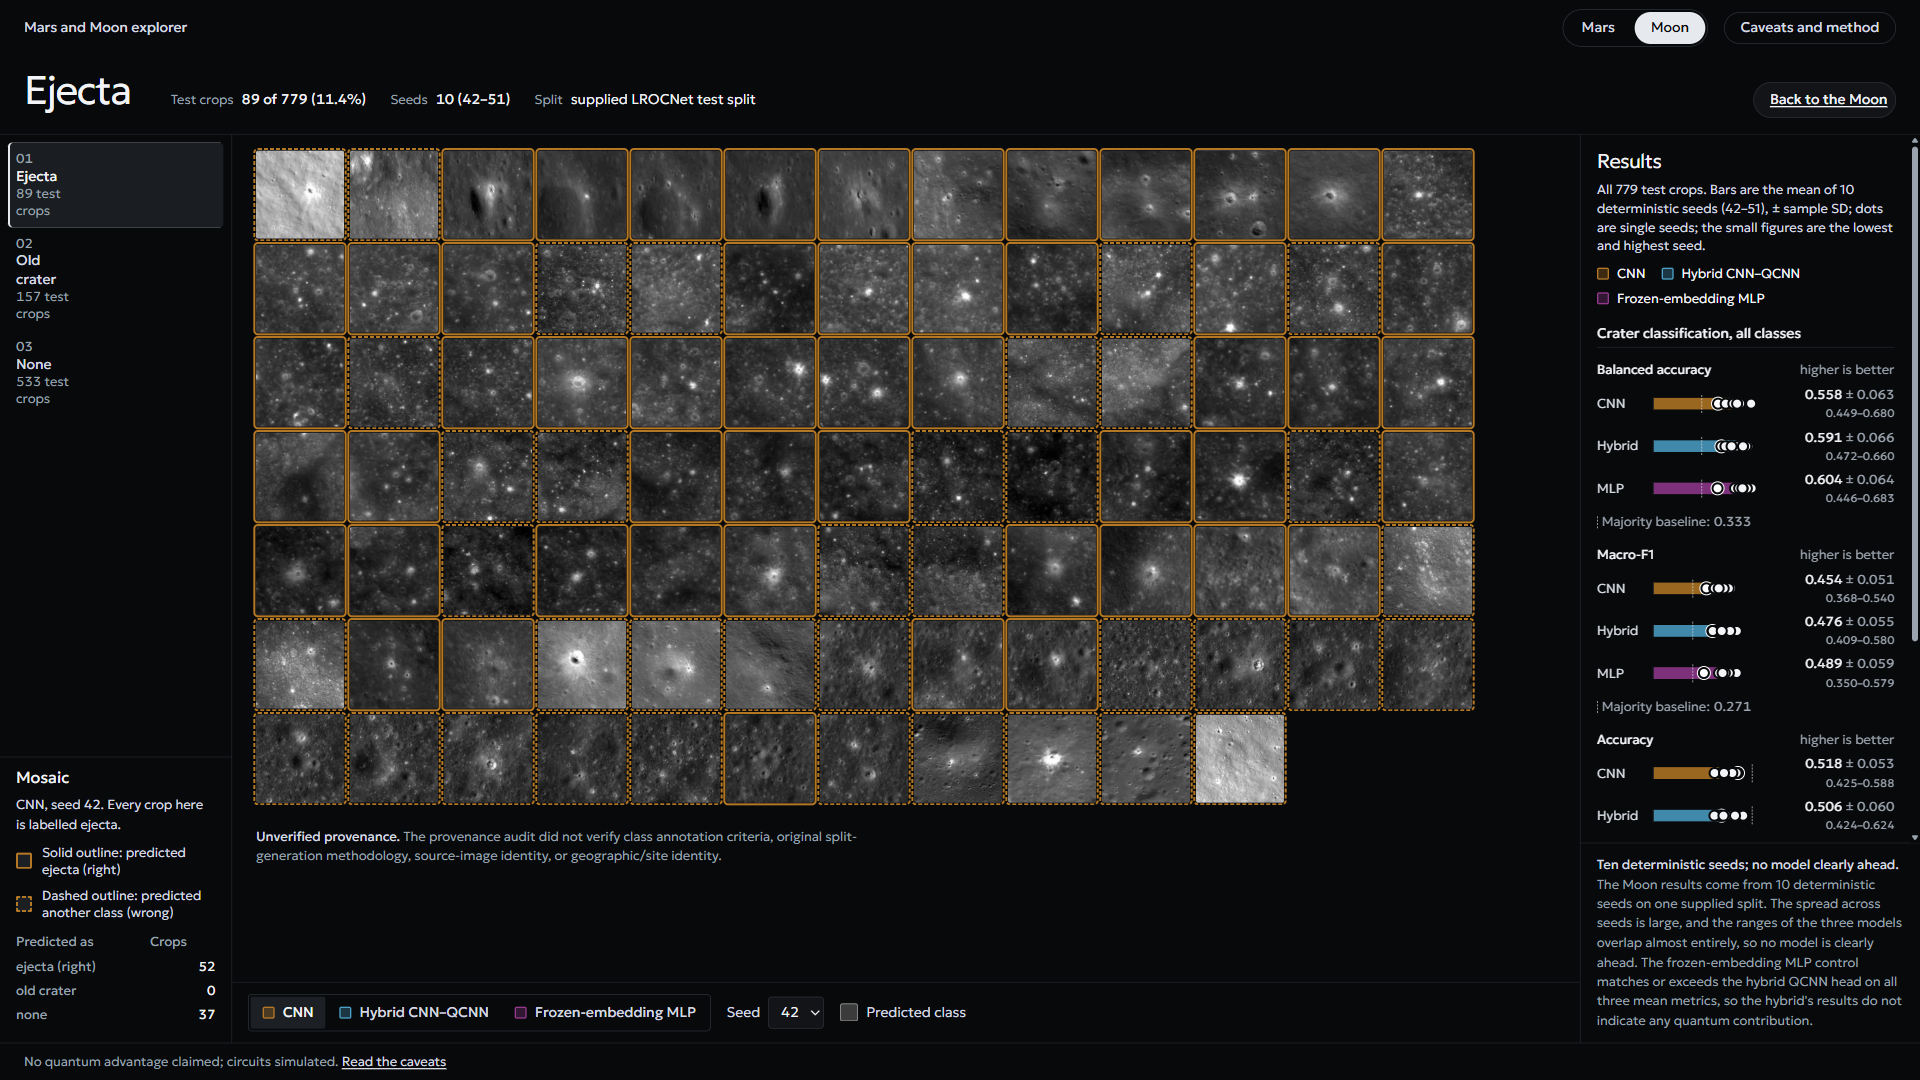
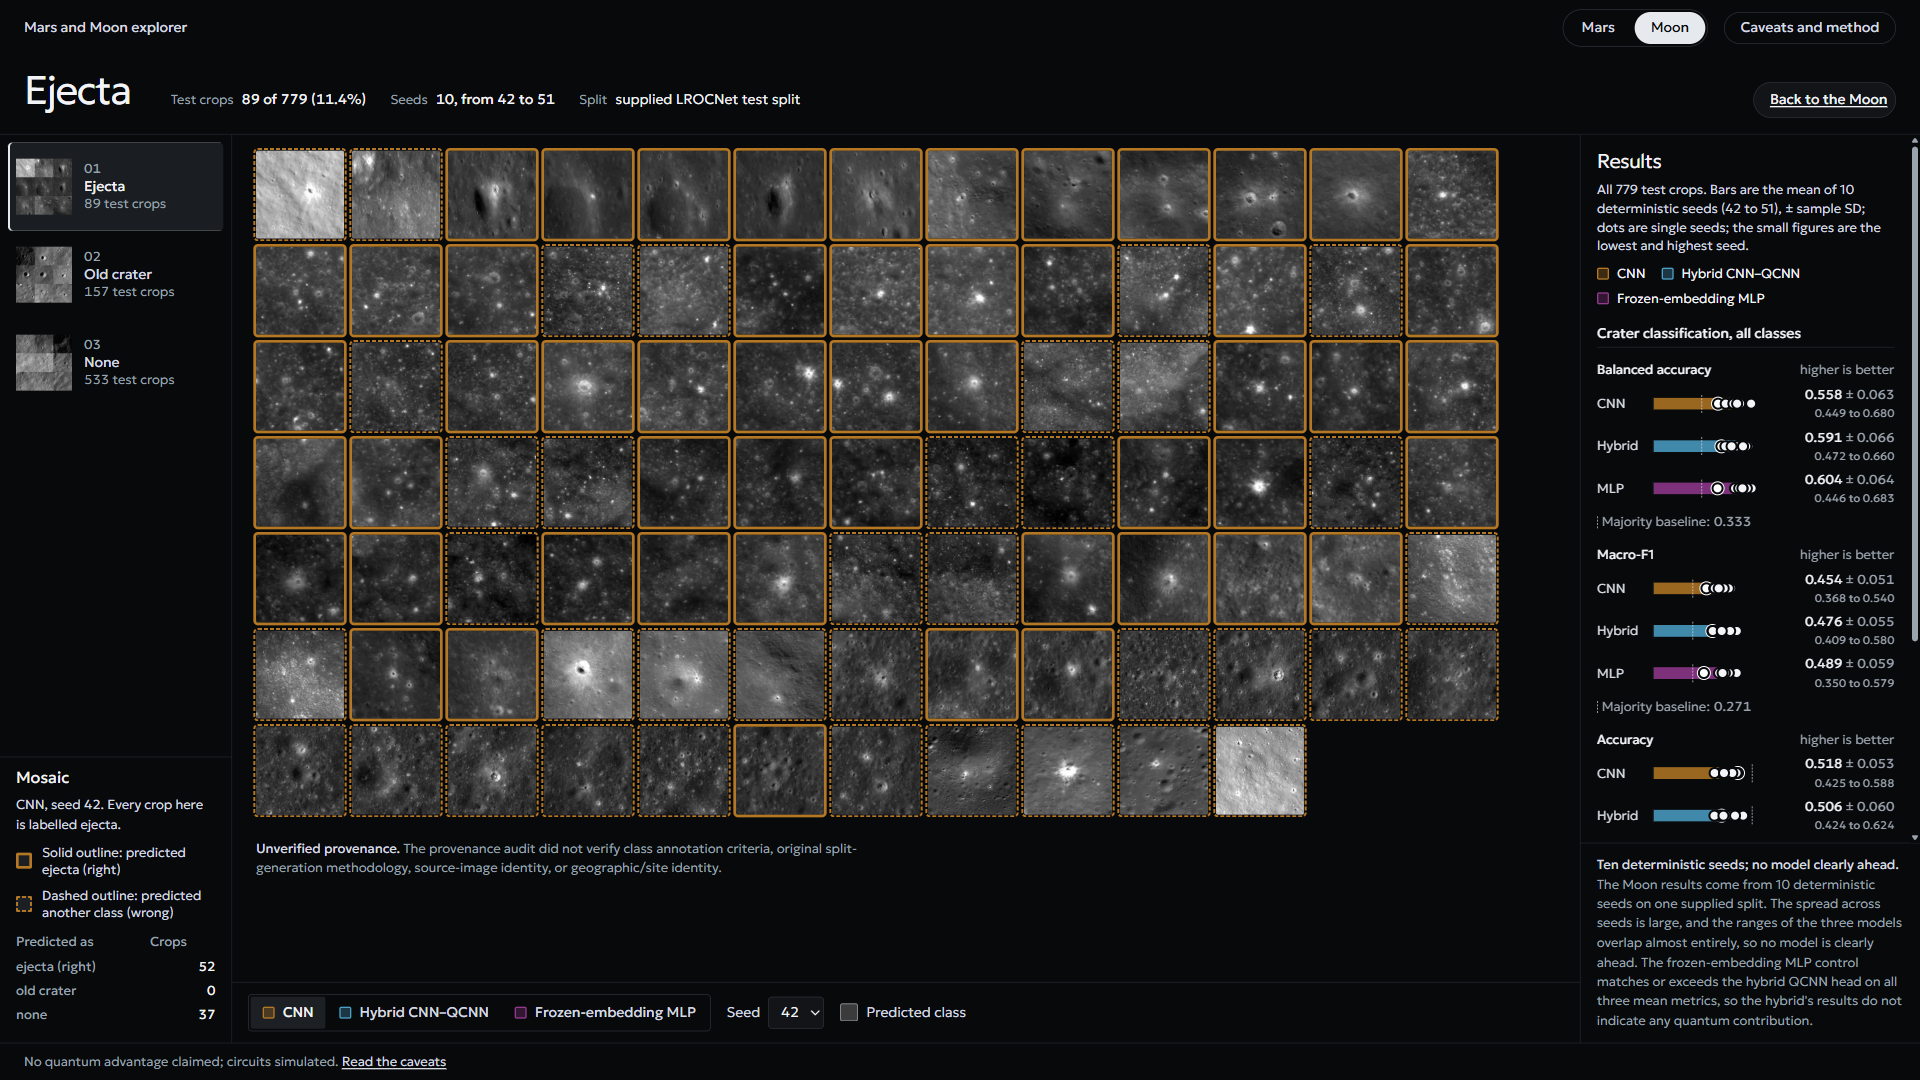
website: step 9/9b review package (screenshots, Hallmark sweep, visual fixes)
Visual check fixes:
- Moon rail: the class thumbnails (3x3 crop mosaics from export_images)
  replace the empty thumbnail column that squeezed the names. Rail
  items without a thumbnail now give their text the whole row.
- Mosaic: right predictions get a 3 px solid outline, wrong ones a
  2 px dash, so they differ in weight as well as pattern.
- Moon globe at 1366x768: the cards spilled under the header and the
  footer. The per-card "first four crops" note is now one line in the
  note box, crops are 52 px, and the list centres when it fits and
  scrolls otherwise.

Hallmark sweep, whole site (pages, styles, components): 0 FAIL /
0 REFLEX / 0 WARN.
- Ranges and seed spans read "0.449 to 0.680" (no dashes in copy).
- Mosaic gap on the 4 px scale; :disabled styles; spacing tokens for
  the metric dot and the crop tag; text colour on the card thumbnail.

Screenshots: Moon globe at 1920x1080 and 1366x768; explorer for
ejecta, old crater and none at 1920x1080; old crater and none at
1366x768.
Vitest 216 passed; lint, types and build clean.

diff --git a/website/src/pages/MoonExplorer.tsx b/website/src/pages/MoonExplorer.tsx
@@ -1,6 +1,7 @@
 import { useEffect, useId, useMemo, useRef, useState, type KeyboardEvent } from 'react'
 import { Link, useSearchParams } from 'react-router'
 import caveatsFile from '../../public/data/caveats.json'
+import imageManifest from '../../public/data/img/manifest.json'
 import summaryFile from '../../public/data/moon/summary.json'
 import { CropSprite } from '../components/moon/CropSprite'
 import { CLASS_NAMES, CLASS_TAGS, modelFromUrl, MOON_CLASSES, MOON_MODELS } from '../components/moon/moonData'
@@ -16,7 +17,11 @@ import '../styles/moon.css'
 const summary = summaryFile as unknown as MoonSummary
 const fmt = new Intl.NumberFormat('en-GB')
 const CELL = 88 // crop size in the mosaic, CSS px
+const GAP = 8 // mosaic gap, CSS px (--space-xs)
 const provenance = (caveatsFile as CaveatsFile).caveats.find((c) => c.id === 'moon_provenance')!
+
+// The class thumbnails (a 3 × 3 crop mosaic each) from export_images.py.
+const classThumbs = imageManifest.moon as unknown as Record<MoonClass, { thumb: { src: string; width: number; height: number } }>
 
 const fileName = (sampleId: string) => sampleId.split('/').pop() ?? sampleId
 
@@ -143,7 +148,7 @@ function Mosaic({ file, cls, modelKey, seed, labels, selected, onSelect }: {
   // One tab stop for the whole mosaic; arrows, Home and End move between crops (roving tabindex).
   const onKeyDown = (e: KeyboardEvent<HTMLDivElement>) => {
     const n = file.crops.length
-    const cols = Math.max(1, Math.floor((grid.current?.clientWidth ?? CELL) / (CELL + 6)))
+    const cols = Math.max(1, Math.floor(((grid.current?.clientWidth ?? CELL) + GAP) / (CELL + GAP)))
     const moves: Record<string, number> = {
       ArrowRight: focusIndex + 1,
       ArrowLeft: focusIndex - 1,
@@ -301,7 +306,7 @@ export function MoonExplorer() {
             <div>
               <dt>Seeds</dt>
               <dd className="num">
-                {summary.seeds.length} ({summary.seeds[0]}–{summary.seeds[summary.seeds.length - 1]})
+                {summary.seeds.length}, from {summary.seeds[0]} to {summary.seeds[summary.seeds.length - 1]}
               </dd>
             </div>
             <div className="readout-product">
@@ -323,6 +328,7 @@ export function MoonExplorer() {
                 id: c,
                 label: CLASS_NAMES[c],
                 detail: `${fmt.format(summary.split_counts.test[c])} test crops`,
+                thumb: classThumbs[c]?.thumb && { ...classThumbs[c].thumb, alt: '' },
               }))}
             />
             <MoonLegend cls={cls} file={file} error={error} modelKey={model.key} seed={seed} />

diff --git a/website/src/pages/MoonGlobe.tsx b/website/src/pages/MoonGlobe.tsx
@@ -34,7 +34,7 @@ const fmt = new Intl.NumberFormat('en-GB')
 // The near side, face on.
 const OVERVIEW: GlobeView = viewFor(0, 0, 1)
 const SAMPLES = 4 // crops per card: the first four of the class by file name (a fixed rule, not a selection)
-const CARD_CROP = 64
+const CARD_CROP = 52
 // The cards sit on the right; the flat map leaves them room.
 const MAP_INSETS = { top: 120, right: 388, bottom: 96, left: 24 }
 
@@ -58,7 +58,6 @@ function ClassCards({ files, current }: { files: MoonClassFile[] | null; current
                   .slice(0, SAMPLES)
                   .map((c) => <CropSprite key={c.sample_id} sprite={file.sprite!} index={c.img} size={CARD_CROP} alt={`${CLASS_NAMES[cls]} test crop ${c.sample_id.split('/').pop()}`} />)}
             </div>
-            <p className="class-card-note">First four test crops by file name.</p>
             <Link className="button-primary" to={{ pathname: '/moon/explore', search: `?class=${cls}` }}>
               Explore class
             </Link>
@@ -158,7 +157,10 @@ export function MoonGlobe() {
               {flat ? 'The flat map has no pins: the crops have no verified locations.' : 'Drag to turn the Moon; scroll or pinch to zoom. Arrow keys turn it, + and − zoom.'}
             </p>
           </div>
-          <p className="moon-globe-note">{LOCATION_NOTE}</p>
+          <div className="moon-globe-note">
+            <p>{LOCATION_NOTE}</p>
+            <p className="moon-globe-note-sub">Each card shows the first four test crops of its class by file name.</p>
+          </div>
           <ClassCards files={files} current={current} />
           <div className="moon-globe-side">
             <div className="view-toggle" role="radiogroup" aria-label="View">

diff --git a/website/src/styles/moon.css b/website/src/styles/moon.css
@@ -19,7 +19,7 @@
 .mosaic {
   display: grid;
   grid-template-columns: repeat(auto-fill, 88px);
-  gap: 6px;
+  gap: var(--space-xs);
   justify-content: start;
 }
 
@@ -38,8 +38,11 @@
   outline-offset: 1px;
 }
 
+/* Right: a heavier solid line. Wrong: a lighter dashed one. They differ in weight and pattern, not hue. */
 .crop[data-correct] {
   outline-style: solid;
+  outline-width: 3px;
+  outline-offset: 0;
 }
 
 .crop:hover {
@@ -54,6 +57,12 @@
   box-shadow:
     0 0 0 4px var(--bg),
     0 0 0 6px var(--focus);
+}
+
+.crop:disabled,
+.moon-explorer .seed-select select:disabled {
+  opacity: 0.45;
+  cursor: not-allowed;
 }
 
 .crop:focus-visible {
@@ -74,7 +83,7 @@
   position: absolute;
   left: 3px;
   bottom: 3px;
-  padding: 0 4px;
+  padding: 0 var(--space-2xs);
   border-radius: 2px;
   background: color-mix(in oklab, var(--bg) 82%, transparent);
   font-size: 0.6875rem;
@@ -127,6 +136,8 @@
 
 .crop-key[data-correct] {
   outline-style: solid;
+  outline-width: 3px;
+  outline-offset: -3px;
 }
 
 .moon-counts td {
@@ -159,12 +170,15 @@
   bottom: var(--space-lg);
   z-index: var(--z-raised);
   display: grid;
-  align-content: center;
+  /* Centred when the cards fit; scrolls (never spills past header or footer) when they do not. */
+  align-content: safe center;
   gap: var(--space-sm);
   width: 340px;
   margin: 0;
   padding: 0;
+  overflow-y: auto;
   list-style: none;
+  scrollbar-width: thin;
 }
 
 .class-card {
@@ -208,7 +222,8 @@
   border-radius: 2px;
 }
 
-.class-card-note {
+.moon-globe-note-sub {
+  margin-top: var(--space-2xs);
   font-size: var(--text-xs);
   color: var(--text-muted);
 }

diff --git a/website/src/components/moon/MoonResultsPanel.tsx b/website/src/components/moon/MoonResultsPanel.tsx
@@ -26,7 +26,7 @@ function rowsFor(def: MetricDef, seed: string): Row[] {
 
 /**
  * Moon results over all 779 test crops from the deterministic 10-seed run (audit Addendum):
- * per model, the mean ± SD, every seed as a dot, the min–max range, and the majority baseline
+ * per model, the mean ± SD, every seed as a dot, the lowest and highest seed, and the majority baseline
  * as a reference line. The reproducibility caveat stays pinned beside the metrics.
  */
 export function MoonResultsPanel({ seed }: { seed: string }) {
@@ -40,7 +40,7 @@ export function MoonResultsPanel({ seed }: { seed: string }) {
             <h2 id={titleId}>Results</h2>
           </div>
           <p className="results-sub">
-            All {summary.split_sizes.test} test crops. Bars are the mean of {seeds.length} deterministic seeds ({seeds[0]}–
+            All {summary.split_sizes.test} test crops. Bars are the mean of {seeds.length} deterministic seeds ({seeds[0]} to{' '}
             {seeds[seeds.length - 1]}), ± sample SD; dots are single seeds; the small figures are the lowest and highest seed.
           </p>
           <ul className="results-legend" aria-label="Models">

diff --git a/website/src/test/moon.test.tsx b/website/src/test/moon.test.tsx
@@ -153,7 +153,7 @@ describe('Moon explorer: results panel', () => {
       expect(Number(rows[i].querySelector('[data-value]')!.getAttribute('data-value'))).toBe(summary.metrics[m][key].mean)
       expect(rows[i].querySelector('.metric-sd')).toHaveTextContent(`± ${summary.metrics[m][key].sd.toFixed(3)}`)
       const r = summary.ranges[m][key as 'accuracy']
-      expect(rows[i].querySelector('.metric-range')).toHaveTextContent(`${r.min.toFixed(3)}–${r.max.toFixed(3)}`)
+      expect(rows[i].querySelector('.metric-range')).toHaveTextContent(`${r.min.toFixed(3)} to ${r.max.toFixed(3)}`)
       expect(rows[i].querySelectorAll('.metric-dot')).toHaveLength(10)
       expect(rows[i].querySelectorAll('.metric-dot[data-active]')).toHaveLength(1)
     })

diff --git a/website/src/components/results/MetricChart.tsx b/website/src/components/results/MetricChart.tsx
@@ -94,7 +94,7 @@ export function MetricChart({ def, rows, pointNoun, reference }: Props) {
               {r.sd !== null && <span className="metric-sd num"> ± {fmtSd(r.sd)}</span>}
               {r.range && r.range.min !== null && r.range.max !== null && (
                 <span className="metric-range num">
-                  {formatMetric(def, r.range.min)}–{formatMetric(def, r.range.max)}
+                  {formatMetric(def, r.range.min)} to {formatMetric(def, r.range.max)}
                 </span>
               )}
             </span>

diff --git a/website/src/styles/explorer.css b/website/src/styles/explorer.css
@@ -324,6 +324,11 @@ kbd {
   box-shadow: inset 2px 0 0 var(--accent);
 }
 
+/* An item without a thumbnail gives its text the whole row. */
+.rail-item:not(:has(.rail-thumb)) {
+  grid-template-columns: minmax(0, 1fr);
+}
+
 .rail-thumb {
   display: grid;
   place-items: center;
@@ -1046,7 +1051,7 @@ kbd {
   left: 0;
   width: 8px;
   height: 8px;
-  margin: -4px 0 0 -4px;
+  margin: calc(var(--space-2xs) * -1) 0 0 calc(var(--space-2xs) * -1);
   border-radius: 50%;
   background: var(--text);
   box-shadow: 0 0 0 2px var(--bg);

diff --git a/website/src/styles/globe.css b/website/src/styles/globe.css
@@ -410,6 +410,7 @@
   height: 160px;
   object-fit: contain;
   background: var(--bg);
+  color: var(--text);
 }
 
 .site-card-body {
